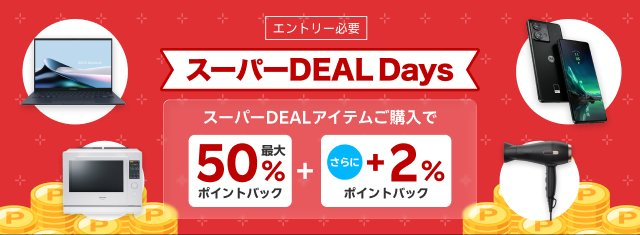
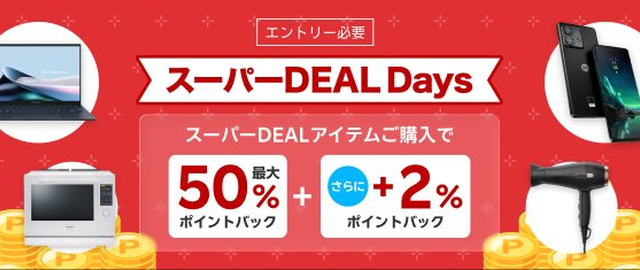
Add files via upload

diff --git a/index.html b/index.html
@@ -407,7 +407,7 @@
           <div style="display:flex; align-items:center; justify-content:space-between; padding:8px 14px; background:var(--paper); border:1px solid var(--line); border-bottom:none; border-radius:4px 4px 0 0;">
             <span style="font-size:10px; letter-spacing:.16em; text-transform:uppercase; color:var(--ink-dim);">Before</span>
           </div>
-          <div style="border:1px solid var(--line); border-radius:0 0 4px 4px; overflow:hidden; aspect-ratio:16/7; background:var(--paper);">
+          <div style="border:1px solid var(--line); border-radius:0 0 4px 4px; overflow:hidden; aspect-ratio:64/27; background:var(--paper);">
             <img src="images/case3_before.png" alt="スーパーDEAL Days Before" loading="lazy" style="width:100%; height:100%; display:block; object-fit:contain;">
           </div>
         </div>
@@ -415,7 +415,7 @@
           <div style="display:flex; align-items:center; justify-content:space-between; padding:8px 14px; background:var(--paper); border:1px solid var(--line); border-bottom:none; border-radius:4px 4px 0 0;">
             <span style="font-size:10px; letter-spacing:.16em; text-transform:uppercase; color:var(--ink-dim);">After</span>
           </div>
-          <div style="border:1px solid var(--line); border-radius:0 0 4px 4px; overflow:hidden; aspect-ratio:16/7; background:var(--paper);">
+          <div style="border:1px solid var(--line); border-radius:0 0 4px 4px; overflow:hidden; aspect-ratio:64/27; background:var(--paper);">
             <img src="images/case3_after.png" alt="スーパーDEAL Days After" loading="lazy" style="width:100%; height:100%; display:block; object-fit:contain;">
           </div>
         </div>
